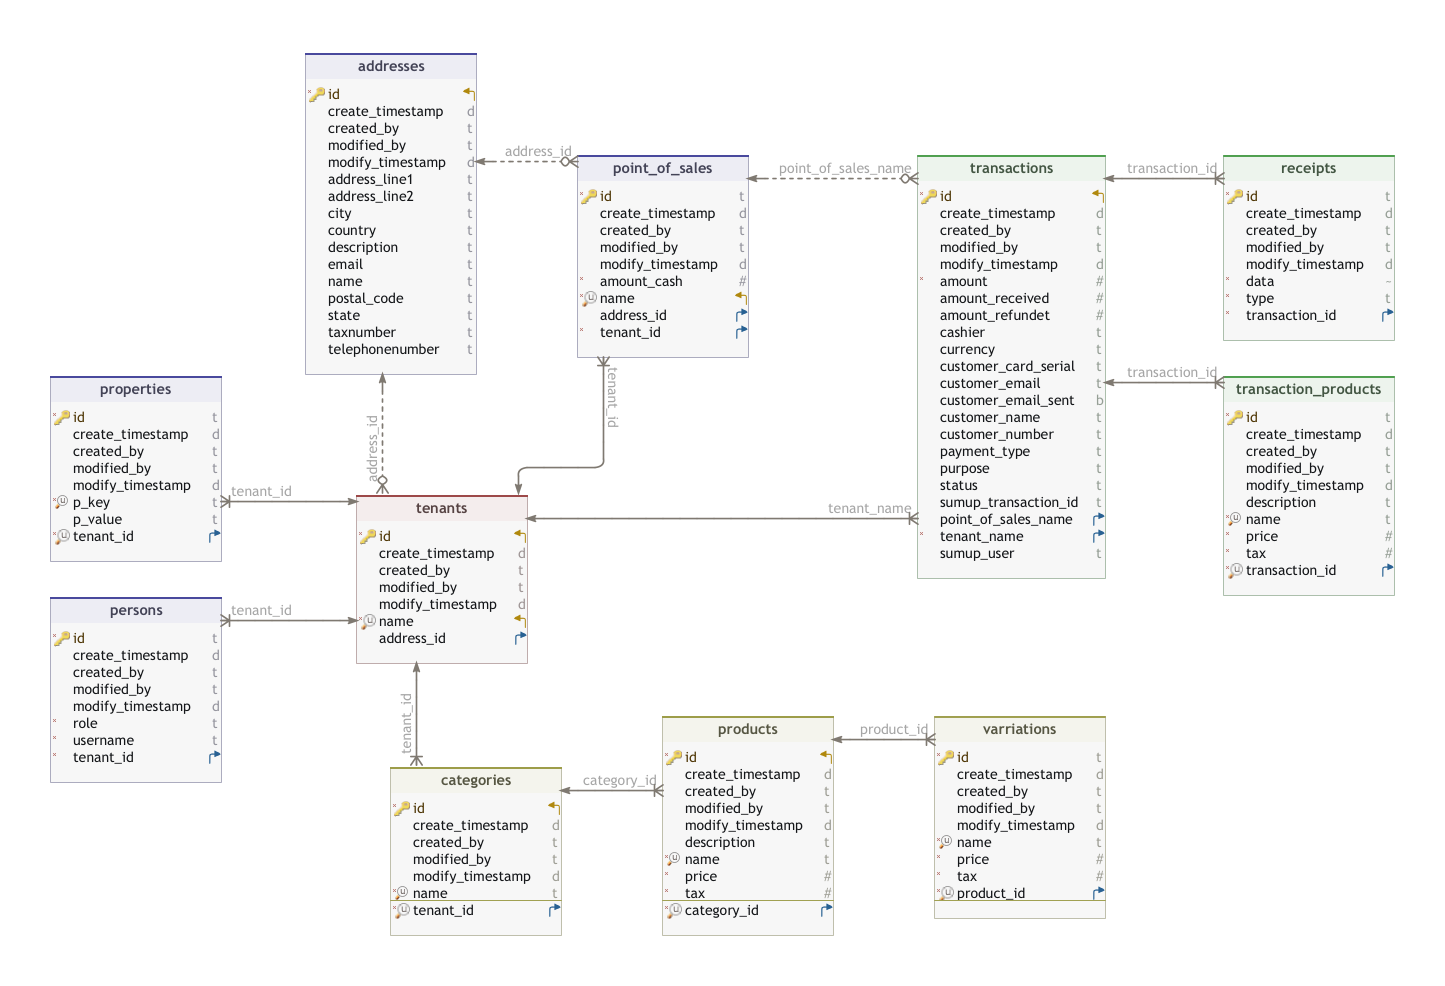
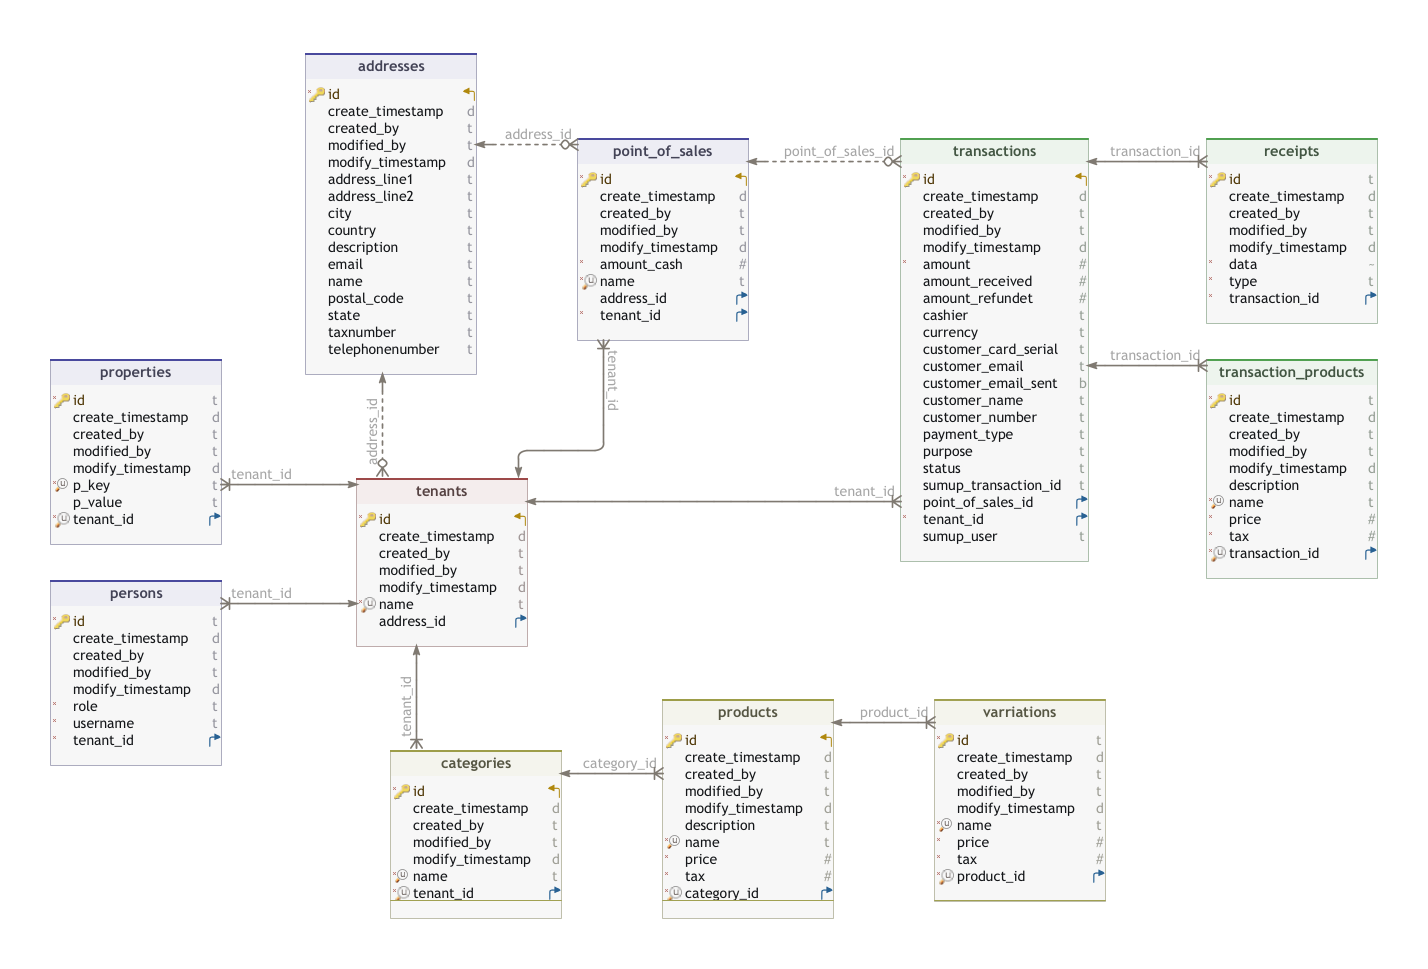
back to tenant and pos id

Changed region(s): [[0.0308, 0.0619, 0.986, 0.9598]]

diff --git a/l9g-webapp-smartcard-front/src/main/java/l9g/webapp/smartcardfront/db/model/PosTransaction.java b/l9g-webapp-smartcard-front/src/main/java/l9g/webapp/smartcardfront/db/model/PosTransaction.java
@@ -47,25 +47,15 @@ public class PosTransaction extends PosUuidObject
   {
     super(createdBy);
     this.tenant = tenant;
-    this.tenantName = tenant.getName();
     this.pointOfSales = pointOfSales;
-    this.pointOfSalesName = pointOfSales.getName();
   }
 
-  @Column(name = "tenant_name", nullable = false)
-  private String tenantName;
-
   @ManyToOne
-  @JoinColumn(name = "tenant_name", referencedColumnName = "name", insertable = false, updatable = false)
-  @MapsId("tenantName")
+  @JoinColumn(name = "tenant_id", nullable = false, updatable = false)
   private PosTenant tenant;
 
-  @Column(name = "point_of_sales_name")
-  private String pointOfSalesName;
-
   @ManyToOne
-  @JoinColumn(name = "point_of_sales_name", referencedColumnName = "name", insertable = false, updatable = false)
-  @MapsId("pointOfSalesName")
+  @JoinColumn(name = "point_of_sales_id")
   private PosPointOfSales pointOfSales;
 
   private String cashier;
